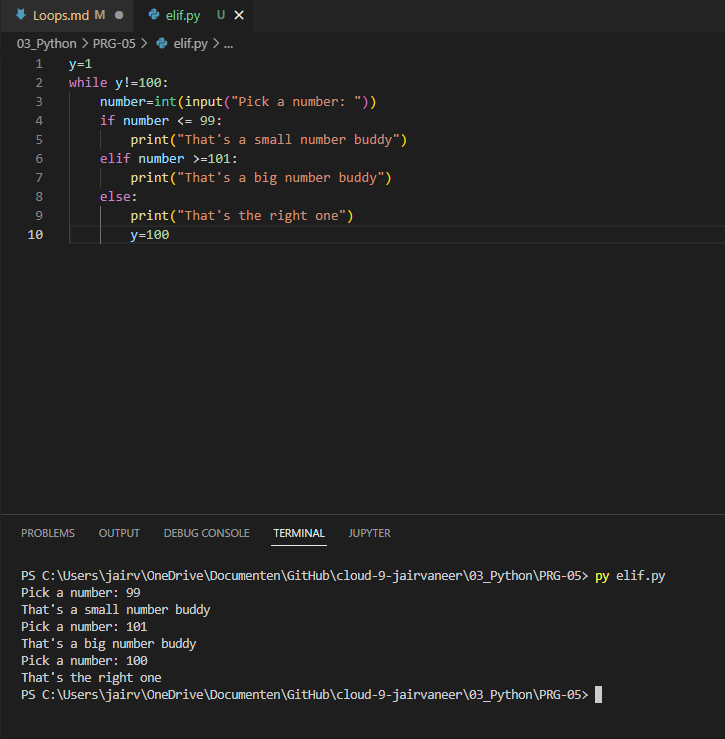
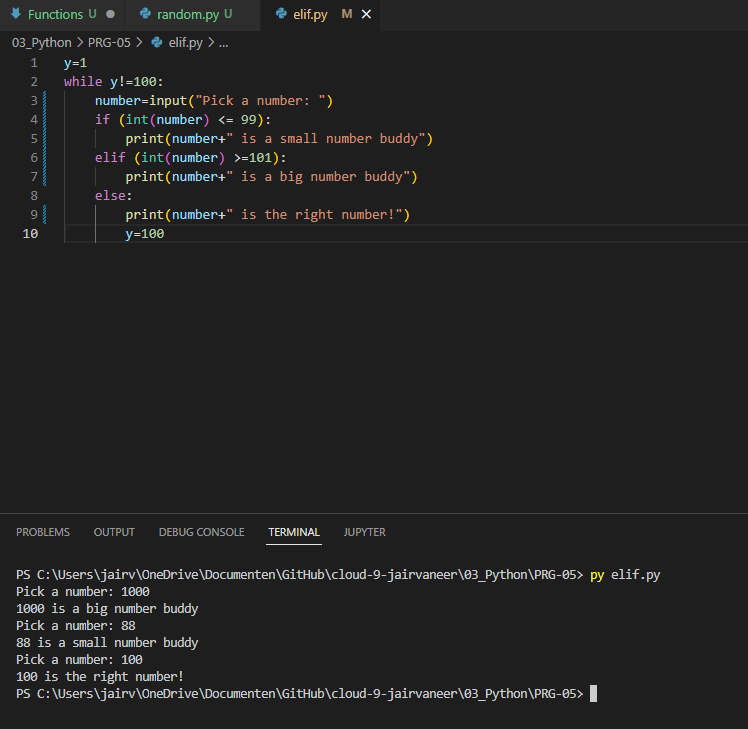
small changes PRG-05 elif code

Changed region(s): [[0.0, 0.6941, 0.9103, 0.9657], [0.0, 0.0, 0.5766, 0.332], [0.3641, 0.0, 0.5159, 0.0302]]

diff --git a/03_Python/PRG-05/elif.py b/03_Python/PRG-05/elif.py
@@ -1,10 +1,10 @@
 y=1
 while y!=100:
-    number=int(input("Pick a number: "))
-    if number <= 99:
-        print("That's a small number buddy")
-    elif number >=101:
-        print("That's a big number buddy")
+    number=input("Pick a number: ")
+    if (int(number) <= 99):
+        print(number+" is a small number buddy")
+    elif (int(number) >=101):
+        print(number+" is a big number buddy")
     else:
-        print("That's the right one")
+        print(number+" is the right number!")
         y=100
